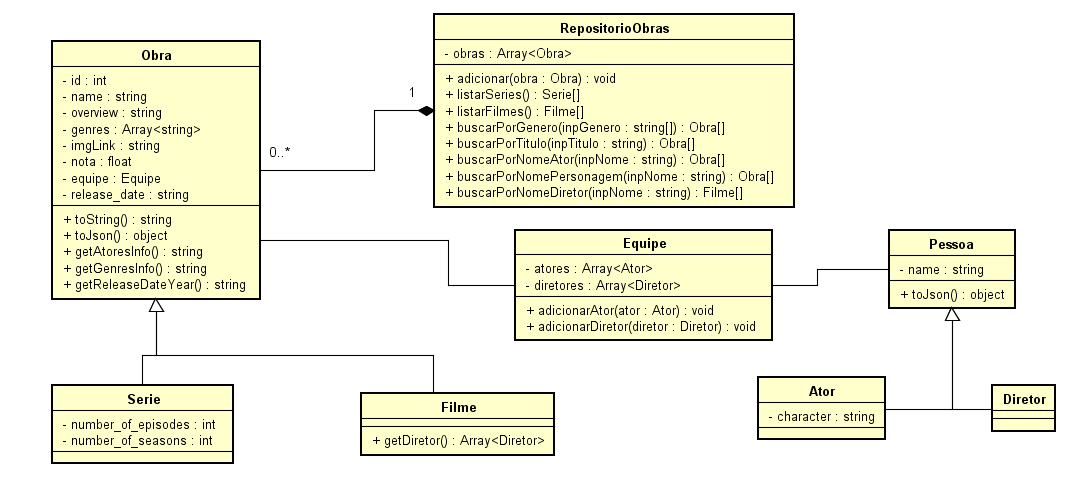
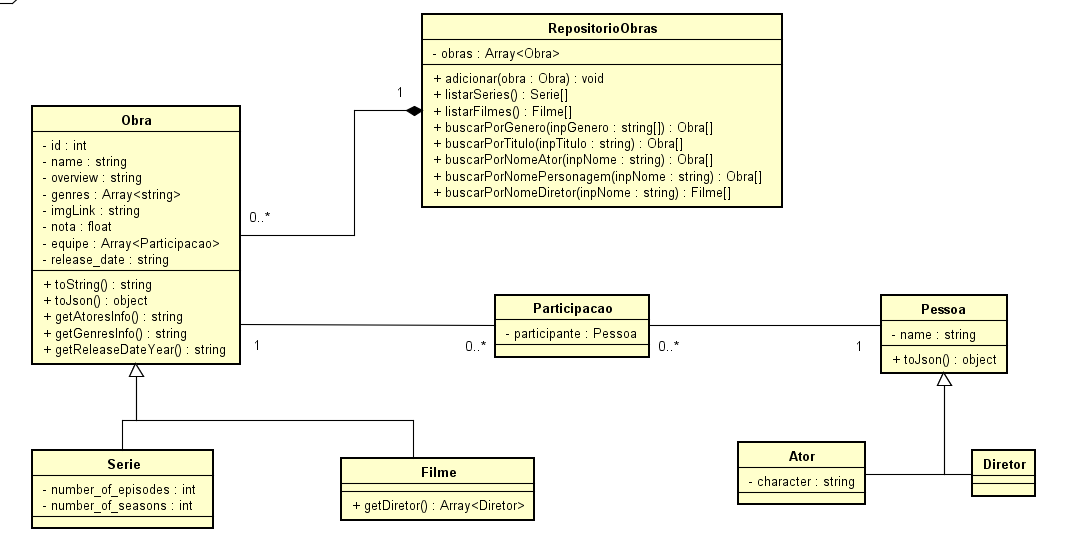
Adicionando classe associativa Participacao para resolver relação N..N em Obras -> Pessoas

diff --git a/backend/src/index.ts b/backend/src/index.ts
@@ -8,7 +8,8 @@ import { Filme } from "./Filme.ts";
 import { RepositorioObras } from "./RepositorioObras.ts";
 import { Serie } from "./Serie.ts";
 import { tipoObra } from "./tipoObra.ts";
-import { Equipe } from "./Equipe.ts";
+import { Participacao } from "./Participacao.ts";
+import { Pessoa } from "./Pessoa.ts";
 
 export const repositorioObras = new RepositorioObras();
 async function getMelhoresObras(tipoObra: tipoObra): Promise<any[]> {
@@ -77,17 +78,42 @@ export async function extrairDados() {
 
     for (let i = 0; i < melhoresFilmes.length; i++) {
       const elencoFilmes = await getAtoresEDiretores('movie', melhoresFilmes[i].id);
+      
       const atoresDesseFilme = elencoFilmes.atores.map((ator: any) => new Ator(ator.name, ator.character));
+      const participacaoAtorFilme = atoresDesseFilme.map((ator: Ator) => new Participacao(ator));
+
       const diretoresDesseFilme = elencoFilmes.diretores.map((diretor: any) => new Diretor(diretor.name));
-      const equipeDesseFilme = new Equipe(atoresDesseFilme, diretoresDesseFilme);
+      const participacaoDiretores = diretoresDesseFilme.map((diretor: Diretor) => new Participacao(diretor));
+    
+      const equipeDesseFilme: Array<Participacao> = [...participacaoAtorFilme, ...participacaoDiretores];
+
+      repositorioObras.adicionar(new Filme(
+        melhoresFilmes[i].id,
+        melhoresFilmes[i].title, 
+        melhoresFilmes[i].overview, 
+        melhoresFilmes[i].poster_path,
+        melhoresFilmes[i].vote_average, 
+        equipeDesseFilme, await getNomesDosGenerosDaObra('movie', melhoresFilmes[i].id), 
+        melhoresFilmes[i].release_date));
+      
 
       const elencoSeries = await getAtoresEDiretores('tv', melhoresSeries[i].id);
-      const atoresDesseSerie = elencoSeries.atores.map((ator: any) => new Ator(ator.name, ator.character));
-      const numeroEpisodiosETemporadas = await getNumeroDeEpisodiosETemporadas(melhoresSeries[i].id);
-      const equipeDessaSerie = new Equipe(atoresDesseSerie, []);
 
-      repositorioObras.adicionar(new Filme(melhoresFilmes[i].id, melhoresFilmes[i].title, melhoresFilmes[i].overview, melhoresFilmes[i].poster_path, melhoresFilmes[i].vote_average, equipeDesseFilme, await getNomesDosGenerosDaObra('movie', melhoresFilmes[i].id), melhoresFilmes[i].release_date));
-      repositorioObras.adicionar(new Serie(melhoresSeries[i].id, melhoresSeries[i].name, melhoresSeries[i].overview, melhoresSeries[i].poster_path, melhoresSeries[i].vote_average, equipeDessaSerie, await getNomesDosGenerosDaObra('tv', melhoresSeries[i].id), melhoresSeries[i].first_air_date, numeroEpisodiosETemporadas.number_of_episodes, numeroEpisodiosETemporadas.number_of_seasons));
+      const atoresDesseSerie = elencoSeries.atores.map((ator: any) => new Ator(ator.name, ator.character));
+      const participacaoAtorSerie = atoresDesseSerie.map((ator: Ator) => new Participacao(ator));
+      console.log(participacaoAtorSerie);
+
+      const numeroEpisodiosETemporadas = await getNumeroDeEpisodiosETemporadas(melhoresSeries[i].id);
+
+      repositorioObras.adicionar(new Serie(
+        melhoresSeries[i].id, 
+        melhoresSeries[i].name, 
+        melhoresSeries[i].overview, 
+        melhoresSeries[i].poster_path, 
+        melhoresSeries[i].vote_average, 
+        participacaoAtorSerie,
+        await getNomesDosGenerosDaObra('tv', melhoresSeries[i].id), 
+        melhoresSeries[i].first_air_date, numeroEpisodiosETemporadas.number_of_episodes, numeroEpisodiosETemporadas.number_of_seasons));
     }
   } catch (error) {
     console.error(error);

diff --git a/backend/src/Obra.ts b/backend/src/Obra.ts
@@ -1,5 +1,6 @@
 import { Ator } from "./Ator.ts";
-import { Equipe } from "./Equipe.ts";
+import { Participacao } from "./Participacao.ts";
+import { Pessoa } from "./Pessoa.ts";
 
 export class Obra {
     private _id: number;
@@ -8,10 +9,10 @@ export class Obra {
     private _genres: Array<string>;
     private _imgLink: string;
     private _nota: number;
-    private _equipe: Equipe;
+    private _equipe: Array<Participacao>;
     private _release_date: string;
 
-    constructor(id: number, name: string, overview: string, imgLink: string, nota: number, equipe: Equipe, genres: Array<string>, release_date: string) {
+    constructor(id: number, name: string, overview: string, imgLink: string, nota: number, equipe: Array<Participacao>, genres: Array<string>, release_date: string) {
         this._id = id;
         this._name = name;
         this._overview = overview;
@@ -37,11 +38,11 @@ export class Obra {
     get nota(): number {
         return this._nota;
     }
-    get equipe(): Equipe {
-        return this._equipe;
+    get equipe(): Array<Pessoa> {
+        return this._equipe.map(equipe => equipe.participante);
     }
     get atores(): Array<Ator> {
-        return [...this._equipe.atores];
+        return this.equipe.filter(equipe => equipe instanceof Ator);
     }
     get genres(): Array<string> {
         return [...this._genres];

diff --git a/backend/src/Serie.ts b/backend/src/Serie.ts
@@ -1,11 +1,11 @@
-import { Equipe } from "./Equipe.ts";
+import { Participacao } from "./Participacao.ts";
 import { Obra } from "./Obra.ts";
 
 export class Serie extends Obra {
     private _number_of_episodes: number;
     private _number_of_seasons: number;
     
-    constructor(id: number, name: string, overview: string, imgLink: string, nota: number, equipe: Equipe, genres: Array<string>, release_date: string, number_of_episodes: number, number_of_seasons: number){
+    constructor(id: number, name: string, overview: string, imgLink: string, nota: number, equipe: Array<Participacao>, genres: Array<string>, release_date: string, number_of_episodes: number, number_of_seasons: number){
         super(id, name, overview, imgLink, nota, equipe, genres, release_date);
         this._number_of_episodes = number_of_episodes;
         this._number_of_seasons = number_of_seasons;

diff --git a/backend/src/Filme.ts b/backend/src/Filme.ts
@@ -1,14 +1,14 @@
 import { Diretor } from "./Diretor.ts";
-import { Equipe } from "./Equipe.ts";
+import { Participacao } from "./Participacao.ts";
 import { Obra } from "./Obra.ts";
 
 export class Filme extends Obra {
-    constructor(id: number, name: string, overview: string, imgLink: string, nota: number, equipe: Equipe, genres: Array<string>, release_date: string ) {
+    constructor(id: number, name: string, overview: string, imgLink: string, nota: number, equipe: Array<Participacao>, genres: Array<string>, release_date: string ) {
         super(id, name, overview, imgLink, nota, equipe, genres, release_date);
     }   
 
     get diretor(): Array<Diretor> {
-        return [...this.equipe.diretores];
+        return [...this.equipe.filter(equipe => equipe instanceof Diretor)];
     }
 
     toString(): string {

diff --git a/backend/src/Participacao.ts b/backend/src/Participacao.ts
@@ -1,0 +1,13 @@
+
+import { Pessoa } from "./Pessoa.ts";
+
+export class Participacao{
+    private _participante: Pessoa;
+    constructor(participante: Pessoa){
+        this._participante = participante;
+    }
+
+    get participante(): Pessoa{
+        return this._participante;
+    }
+}
